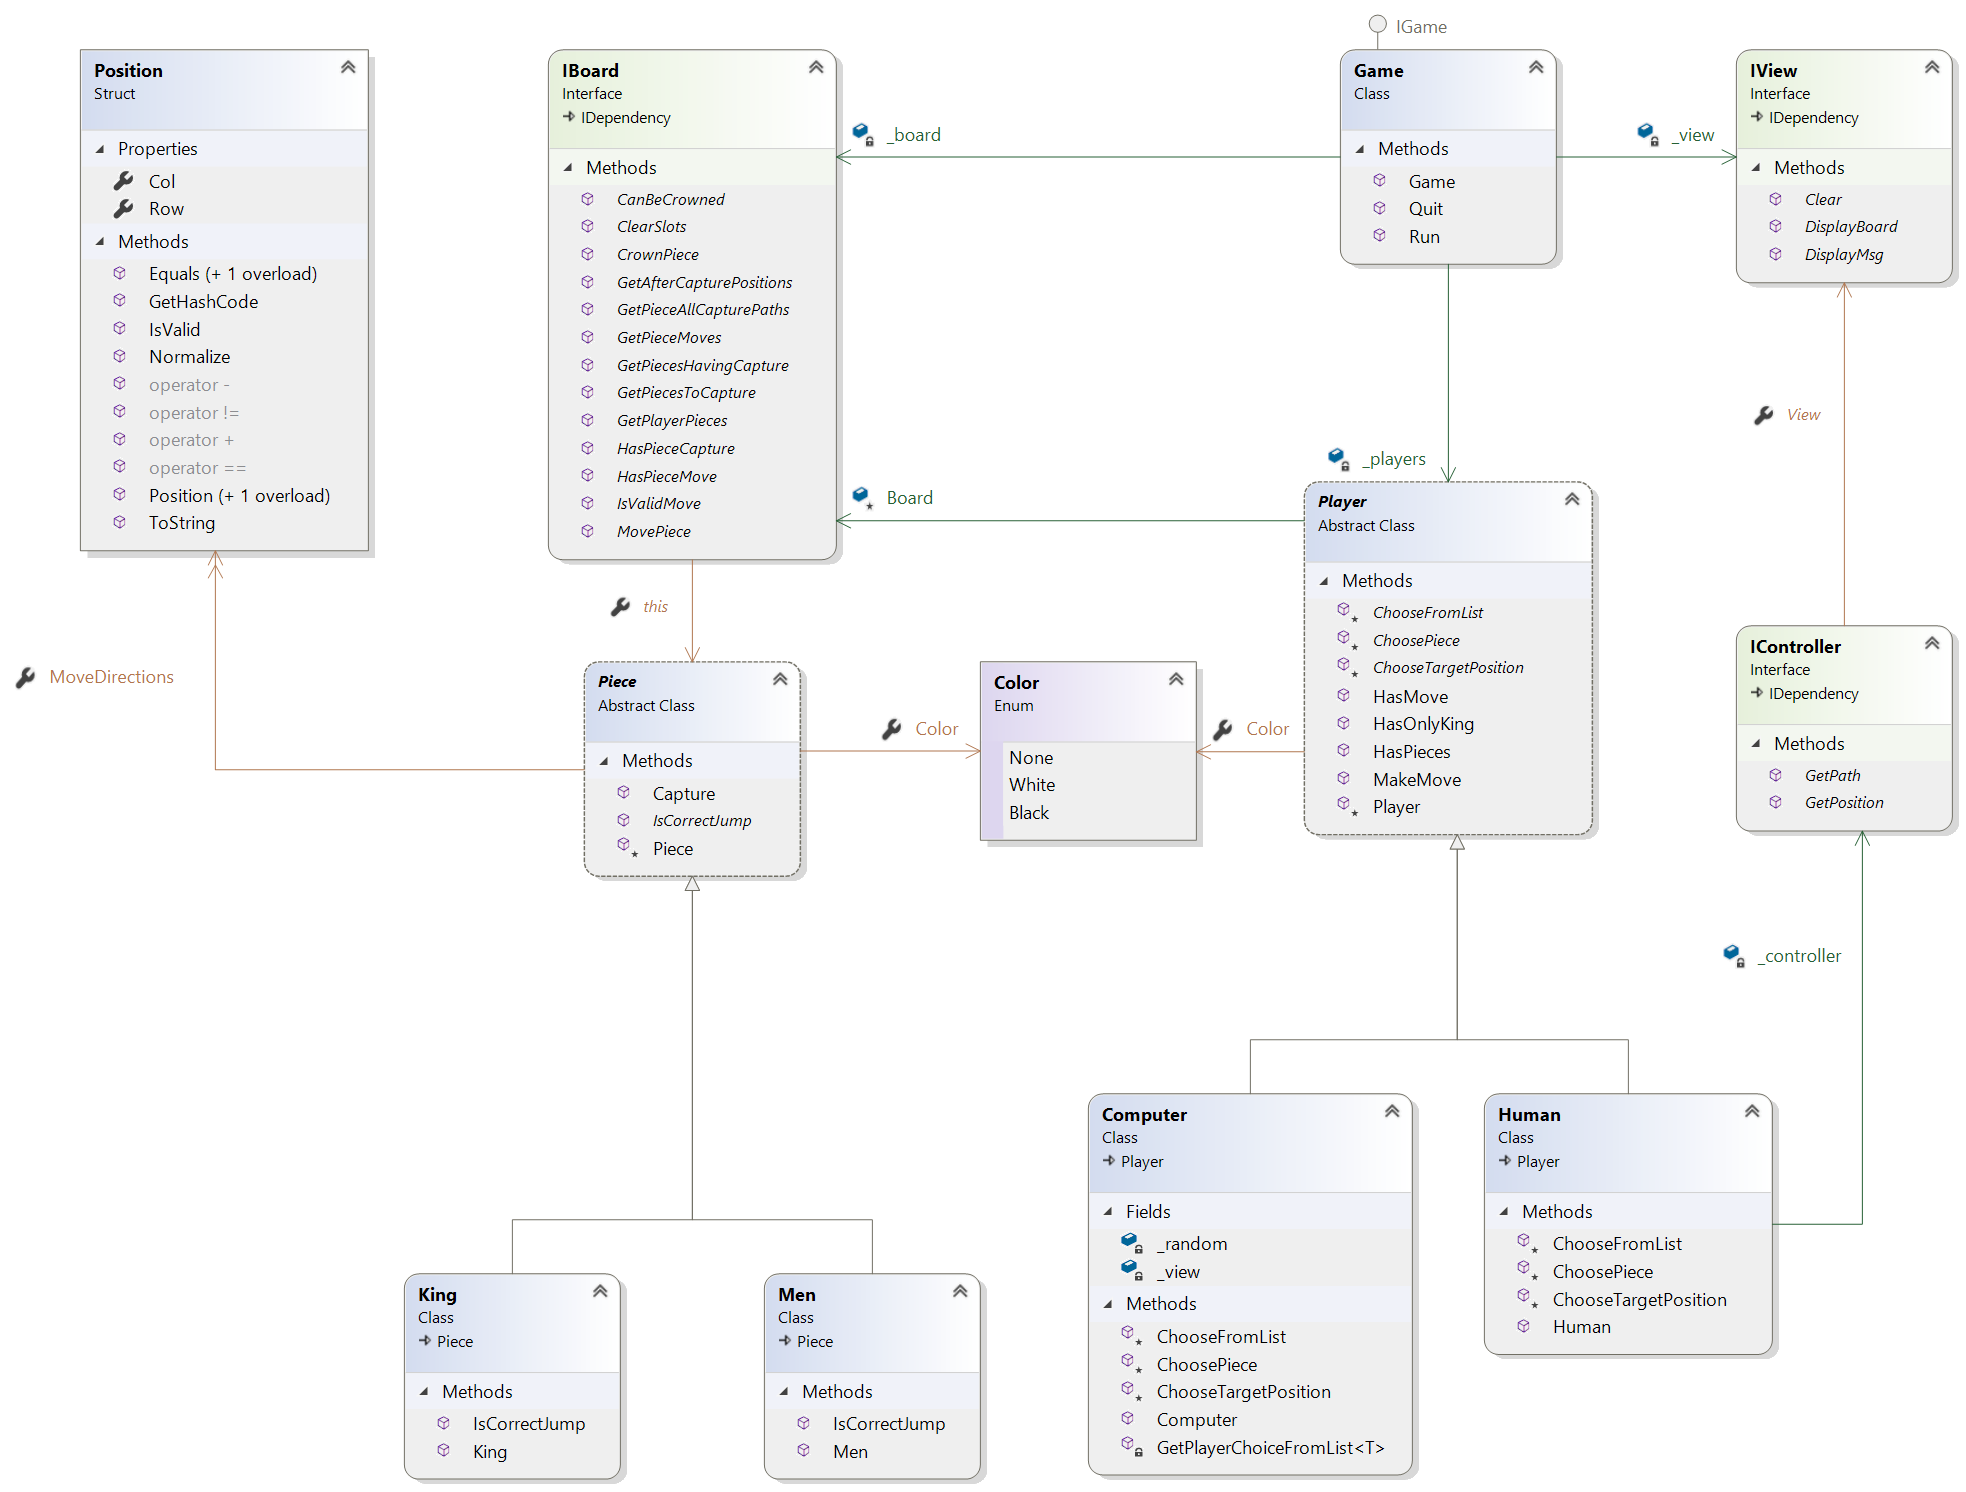
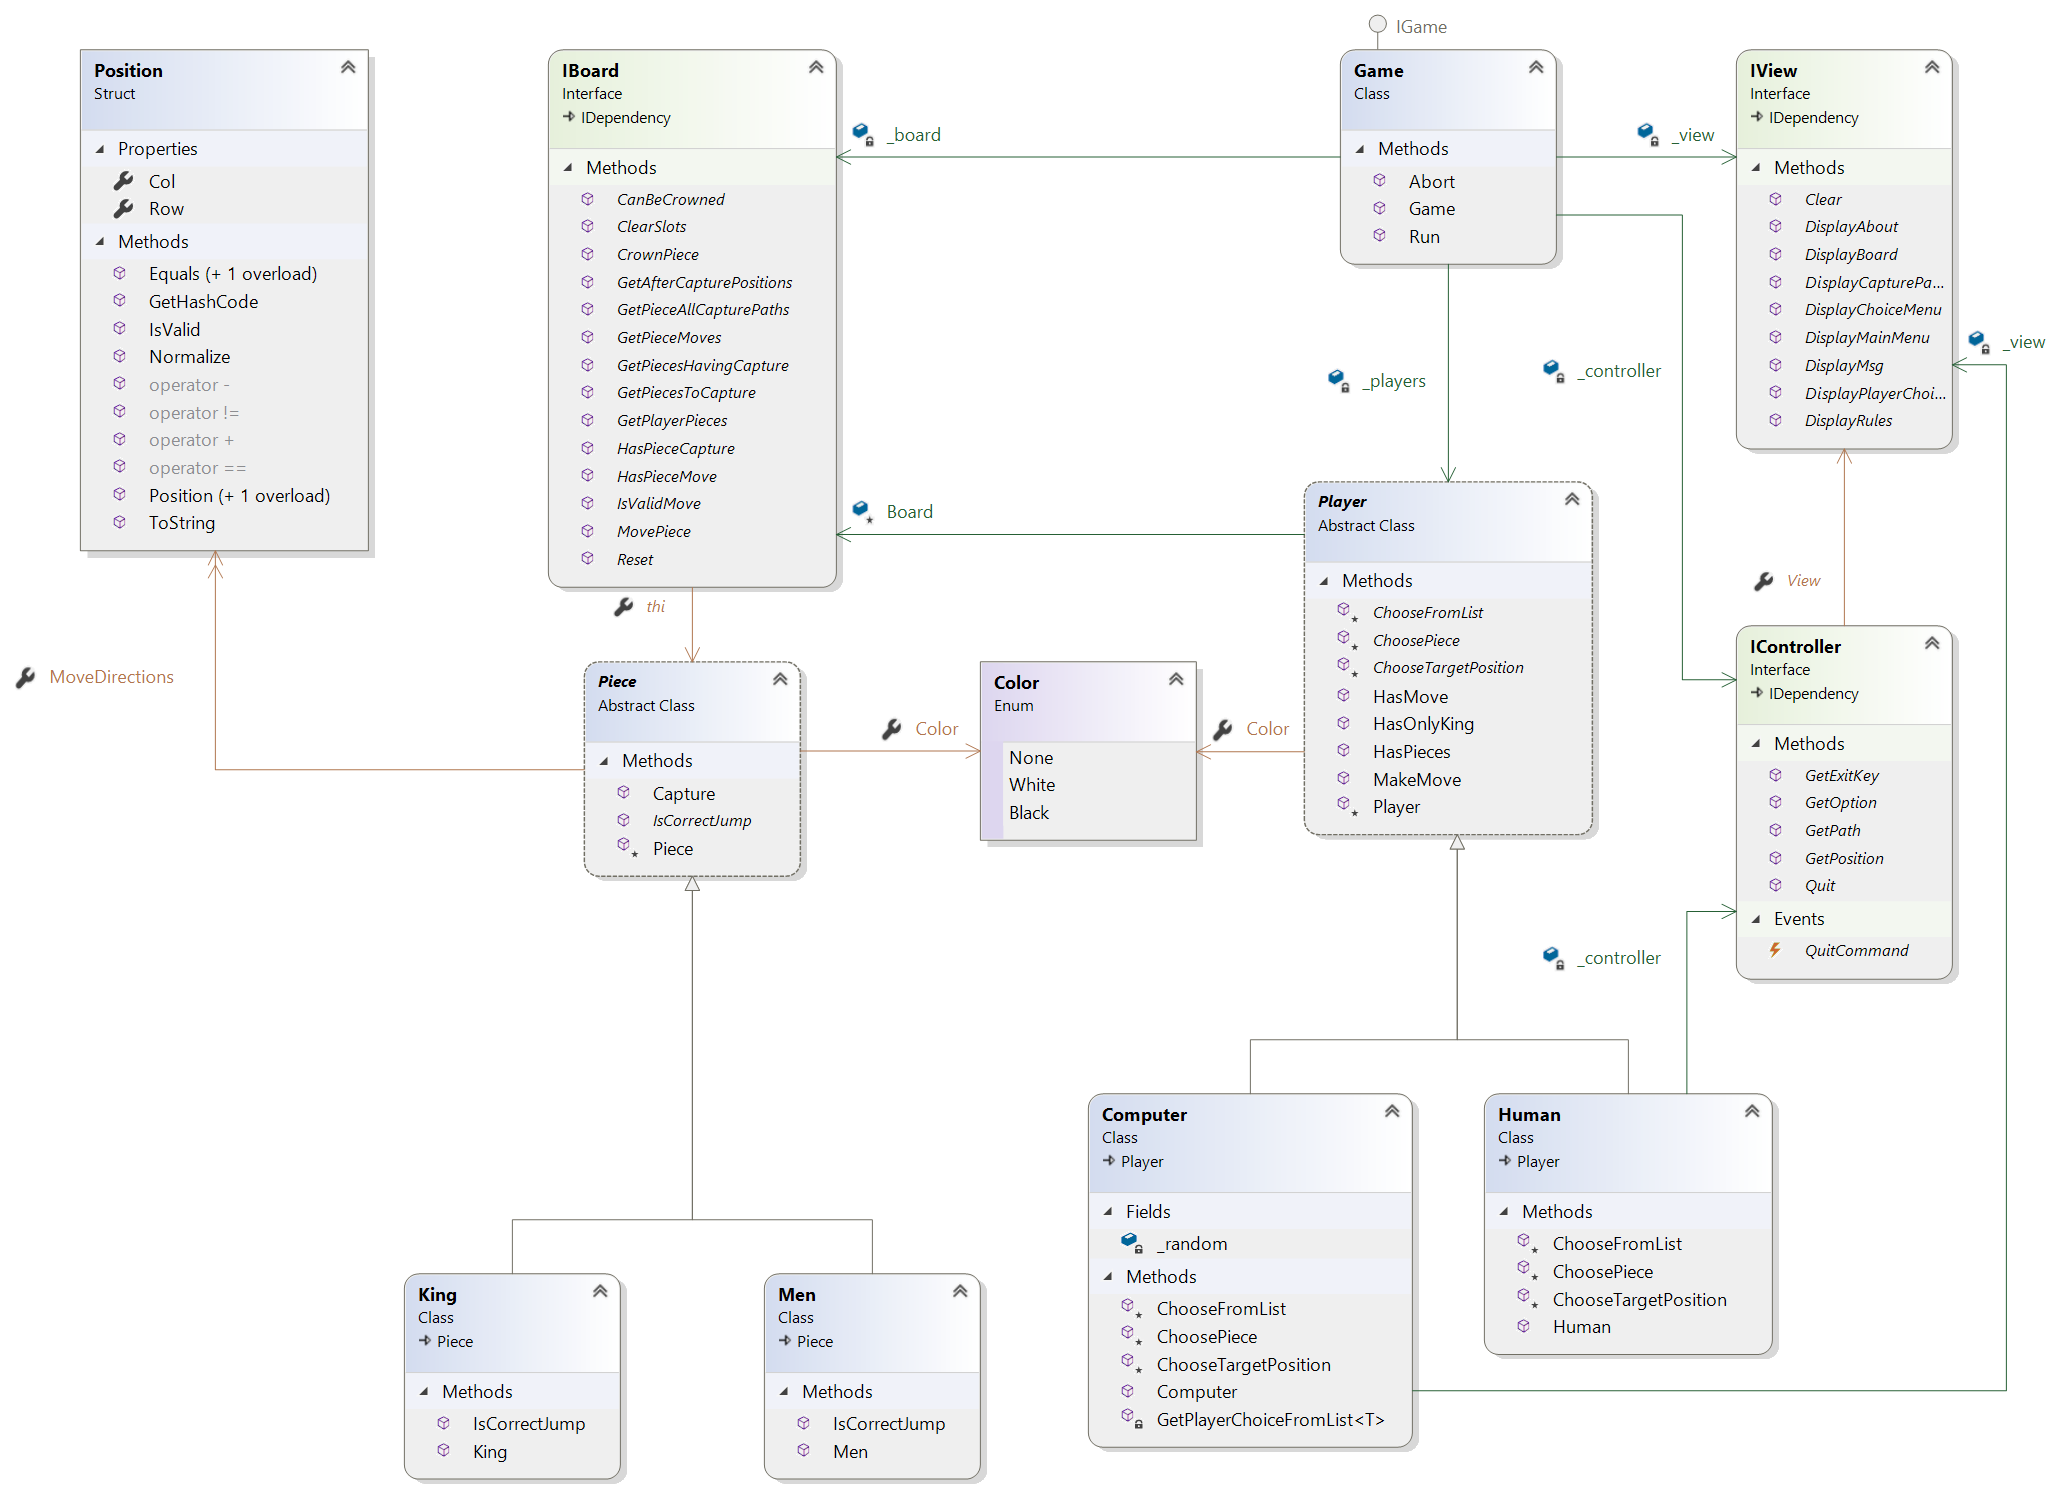
Add a quit command during a game

diff --git a/PolishDraughts.Presentation/Controller.cs b/PolishDraughts.Presentation/Controller.cs
@@ -7,7 +7,9 @@ namespace PolishDraughts.Presentation
 {
     public class Controller : IController
     {
+        public event Action QuitCommand;
         public IView View { get; }
+        private const string QuitLiteral = "quit";
 
         public Controller(IView view)
         {
@@ -27,6 +29,10 @@ namespace PolishDraughts.Presentation
             while (true)
             {
                 var algebraicPosition = Console.ReadLine();
+                if (algebraicPosition?.ToLower() == QuitLiteral)
+                {
+                    OnQuitCommand();
+                }
                 if (IsInputValid(algebraicPosition))
                 {
                     var position = new Position(algebraicPosition);
@@ -53,14 +59,24 @@ namespace PolishDraughts.Presentation
             while (true)
             {
                 messageView();
-
-                if (int.TryParse(Console.ReadLine(), out var choice) && choice >= 1 && choice <= optionsNumber)
+                var input = Console.ReadLine();
+                if (input?.ToLower() == QuitLiteral)
+                {
+                    OnQuitCommand();
+                }
+                if (int.TryParse(input, out var choice) && choice >= 1 && choice <= optionsNumber)
                     return --choice;
 
                 if (clearScreen)
                     View.Clear();
                 View.DisplayMsg("Invalid input.\n");
             }
+        }
+
+        public void GetExitKey()
+        {
+            Console.WriteLine("Press any key to return to main menu.");
+            Console.Read();
         }
 
         public void Quit() => Environment.Exit(0);
@@ -71,5 +87,7 @@ namespace PolishDraughts.Presentation
                    ((input.Length == 2 && char.IsDigit(input[1])) ||
                     (input.Length == 3 && input[1..] == "10"));
         }
+
+        private void OnQuitCommand() => QuitCommand?.Invoke();
     }
 }

diff --git a/PolishDraughts.Core/Entities/Games/Game.cs b/PolishDraughts.Core/Entities/Games/Game.cs
@@ -2,6 +2,7 @@ using System;
 using System.Linq;
 using PolishDraughts.Core.Entities.Players;
 using PolishDraughts.Core.Enums;
+using PolishDraughts.Core.Exceptions;
 using PolishDraughts.Core.Interfaces;
 
 namespace PolishDraughts.Core.Entities.Games
@@ -18,6 +19,8 @@ namespace PolishDraughts.Core.Entities.Games
             _view = view;
             _board = board;
             _players = players;
+
+            _controller.QuitCommand += Abort;
         }
         public void Run()
         {
@@ -48,6 +51,10 @@ namespace PolishDraughts.Core.Entities.Games
                     if (player.HasMove())
                     {
                         _view.DisplayMsg($"{player.Color} player turn.");
+                        if (player is Human)
+                        {
+                            _view.DisplayMsg("In order to return to main menu, please enter ctrl+c.");
+                        }
                         player.MakeMove();
                         _view.DisplayBoard(_board);
                     }
@@ -67,8 +74,15 @@ namespace PolishDraughts.Core.Entities.Games
 
             _view.DisplayMsg(
                 winner is Color.White or Color.Black ? $"{winner} player won the game!" : "It's a draw!");
+            _controller.GetExitKey();
+            Abort();
+        }
 
-            _controller.Quit();
+        public void Abort()
+        {
+            _board.Reset();
+            _controller.QuitCommand -= Abort;
+            throw new GameAbortException();
         }
     }
 }

diff --git a/PolishDraughts.Presentation/Menu.cs b/PolishDraughts.Presentation/Menu.cs
@@ -3,6 +3,7 @@ using System.Collections.Generic;
 using System.Linq;
 using PolishDraughts.Core.Entities.Players;
 using PolishDraughts.Core.Enums;
+using PolishDraughts.Core.Exceptions;
 using PolishDraughts.Core.Interfaces;
 
 namespace PolishDraughts.Presentation
@@ -39,10 +40,12 @@ namespace PolishDraughts.Presentation
 
         private void NewGame()
         {
+            var options = new List<string> { "Human", "Computer", nameof(MainMenu) };
+
             foreach (var (color, i) in new[] { (Color.White, 0), (Color.Black, 1) })
             {
-                var options = new List<string> { "Human", "Computer", nameof(MainMenu) };
                 _view.Clear();
+
                 var optionNumber = _controller.GetOption(
                     options.Count,
                     () =>
@@ -50,6 +53,7 @@ namespace PolishDraughts.Presentation
                         _view.DisplayPlayerChoice(color);
                         _view.DisplayChoiceMenu(options);
                     }, true);
+
                 switch (optionNumber)
                 {
                     case 0:
@@ -63,7 +67,15 @@ namespace PolishDraughts.Presentation
                         break;
                 }
             }
-            _gameFactory(_players).Run();
+
+            try
+            {
+                _gameFactory(_players).Run();
+            }
+            catch (GameAbortException)
+            {
+            }
+            MainMenu();
         }
 
         private void Rules()

diff --git a/PolishDraughts.Core/Entities/Boards/Board.cs b/PolishDraughts.Core/Entities/Boards/Board.cs
@@ -17,7 +17,17 @@ namespace PolishDraughts.Core.Entities.Boards
         public Board()
         {
             _slots = new Piece [Size, Size];
+            Reset();
+        }
 
+        public Piece this[Position position]
+        {
+            get => _slots[position.Row, position.Col];
+            private set => _slots[position.Row, position.Col] = value;
+        }
+
+        public void Reset()
+        {
             for (var row = 0; row < Size; row++)
             {
                 for (var col = 0; col < Size; col++)
@@ -29,20 +39,20 @@ namespace PolishDraughts.Core.Entities.Boards
                             _slots[row, col] = new Men(Color.Black);
                         }
 
-                        if (row > 5)
+                        else if (row > 5)
                         {
                             _slots[row, col] = new Men(Color.White);
+                        }
+
+                        else
+                        {
+                            _slots[row, col] = null;
                         }
                     }
                 }
             }
         }
 
-        public Piece this[Position position]
-        {
-            get => _slots[position.Row, position.Col];
-            private set => _slots[position.Row, position.Col] = value;
-        }
 
         public void MovePiece(ref Position piecePosition, Position targetPosition)
         {

diff --git a/PolishDraughts.Core/Interfaces/IController.cs b/PolishDraughts.Core/Interfaces/IController.cs
@@ -6,10 +6,12 @@ namespace PolishDraughts.Core.Interfaces
 {
     public interface IController : IDependency
     {
+        public event Action QuitCommand;
         IView View { get; }
         Position GetPosition(int kind);
         CapturePath GetPath(List<CapturePath> capturePaths);
         int GetOption(int optionsNumber, Action messageView, bool clearScreen = false);
+        void GetExitKey();
         void Quit();
     }
 }

diff --git a/PolishDraughts.Core/Exceptions/GameAbortException.cs b/PolishDraughts.Core/Exceptions/GameAbortException.cs
@@ -1,0 +1,19 @@
+using System;
+
+namespace PolishDraughts.Core.Exceptions
+{
+    public class GameAbortException : Exception
+    {
+        //public GameAbortException()
+        //{
+        //}
+
+        //public GameAbortException(string message) : base(message)
+        //{
+        //}
+
+        //public GameAbortException(string message, Exception inner) : base(message, inner)
+        //{
+        //}
+    }
+}

diff --git a/PolishDraughts.Core/Interfaces/IBoard.cs b/PolishDraughts.Core/Interfaces/IBoard.cs
@@ -8,6 +8,7 @@ namespace PolishDraughts.Core.Interfaces
     public interface IBoard : IDependency
     {
         Piece this[Position position] { get; }
+        void Reset();
         void MovePiece(ref Position piecePosition, Position targetPosition);
         void ClearSlots(List<Position> positions);
         void CrownPiece(Position position);

diff --git a/PolishDraughts.Core/Interfaces/IGame.cs b/PolishDraughts.Core/Interfaces/IGame.cs
@@ -3,5 +3,6 @@ namespace PolishDraughts.Core.Interfaces
     public interface IGame : IDependency
     {
         void Run();
+        void Abort();
     }
 }
